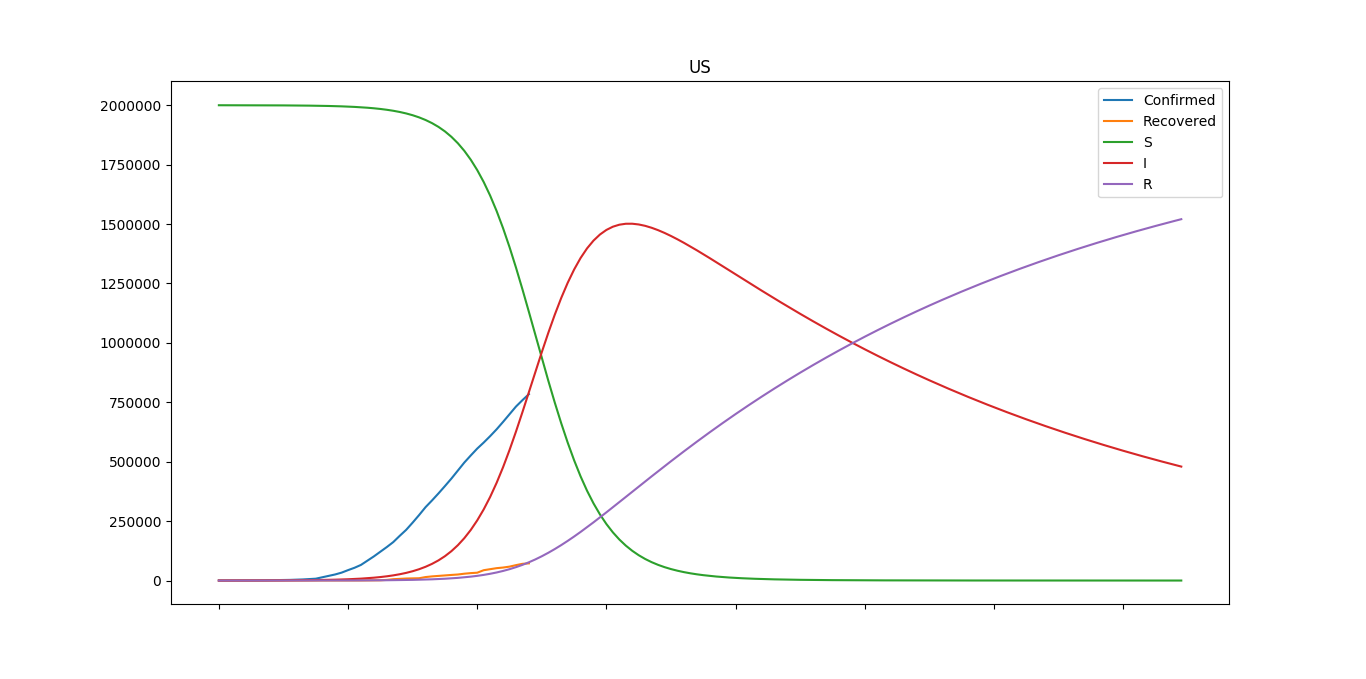
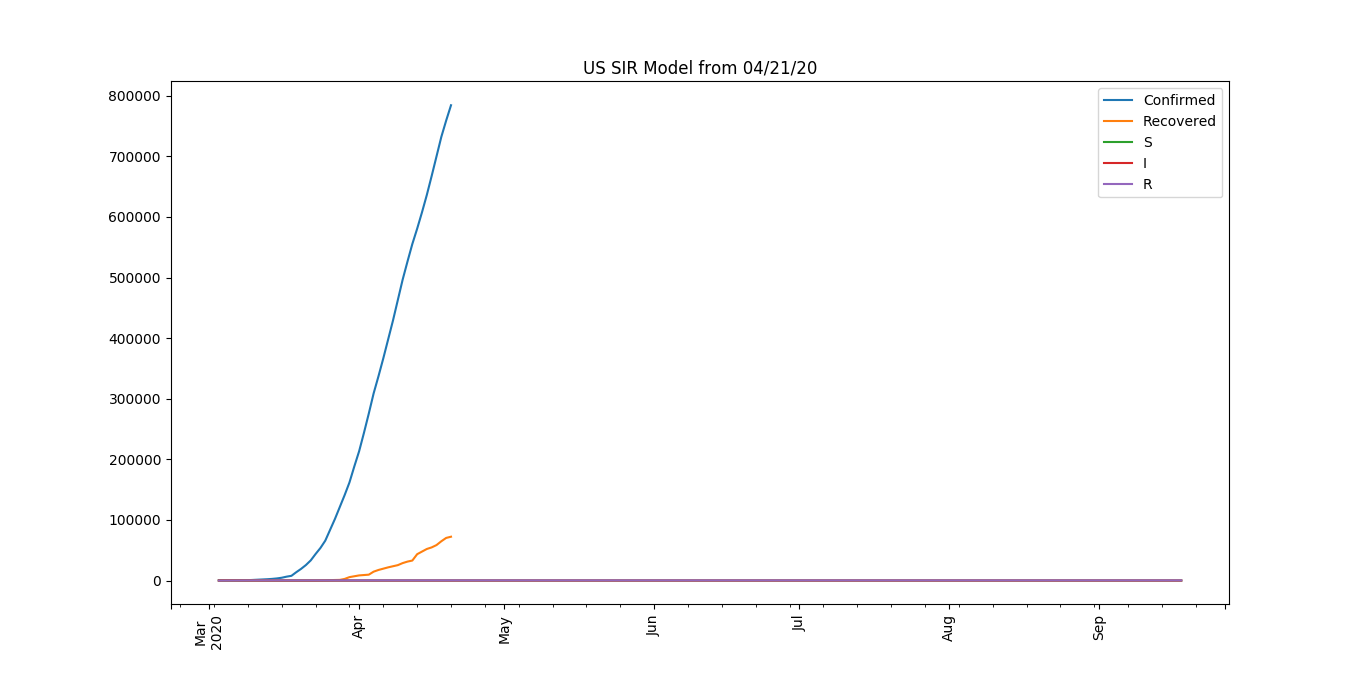
cleaning up the graph

diff --git a/sir_learner.py b/sir_learner.py
@@ -11,6 +11,7 @@ from scipy.optimize import minimize,least_squares
 import matplotlib.pyplot as plt
 from datetime import timedelta, datetime
 import cProfile,pstats
+import matplotlib.dates as mdates
 
 COUNTRY_POPULATIONS = {"China":1433783686, "US":329064917, "Japan":126860301, "United Kingdom":67530172, "Italy":60550075, "Canada":37411047}
 
@@ -47,7 +48,7 @@ def loss(point, confirmed, recovered,initial):
     return alpha * l1 + (1 - alpha) * l2
 
 class SirLearner(object):
-    def __init__(self, path_confirmed,path_recovered, country, S_0=2000000, I_0 = 100, duration=150):
+    def __init__(self, path_confirmed,path_recovered, country, S_0=2500000, I_0 = 100, duration=180):
         self.path_confirmed = path_confirmed
         self.path_recovered = path_recovered
         self.country = country
@@ -73,7 +74,7 @@ class SirLearner(object):
         while len(values) < new_size:
             current = current + timedelta(days=1)
             values = np.append(values, datetime.strftime(current, '%m/%d/%y'))
-        return values
+        return [datetime.strptime(x,'%m/%d/%y') for x in values]
 
     def predict(self, beta, gamma):
         """
@@ -131,11 +132,20 @@ class SirLearner(object):
             'I': prediction.y[1],
             'R': prediction.y[2]
         }, index=new_index)
+
         fig, ax = plt.subplots(figsize=(15, 10))
-        ax.set_title(self.country)
+        now = datetime.now().strftime('%Y%m%d')
+        ax.set_title(f'{self.country} SIR Model from {now}')
+        
+        ax.set_xticks(df.index)
+        ax.xaxis.set_major_formatter(mdates.DateFormatter("%Y-%m"))
+        ax.xaxis.set_minor_formatter(mdates.DateFormatter("%d"))
         df.plot(ax=ax)
+        plt.xticks(rotation=90)    
+        
+        
         plt.show()
-        fig.savefig(abspath(f"./out/{self.country}.png"))
+        fig.savefig(abspath(f"./out/{self.country}_{now}.png"))
 
 
 
